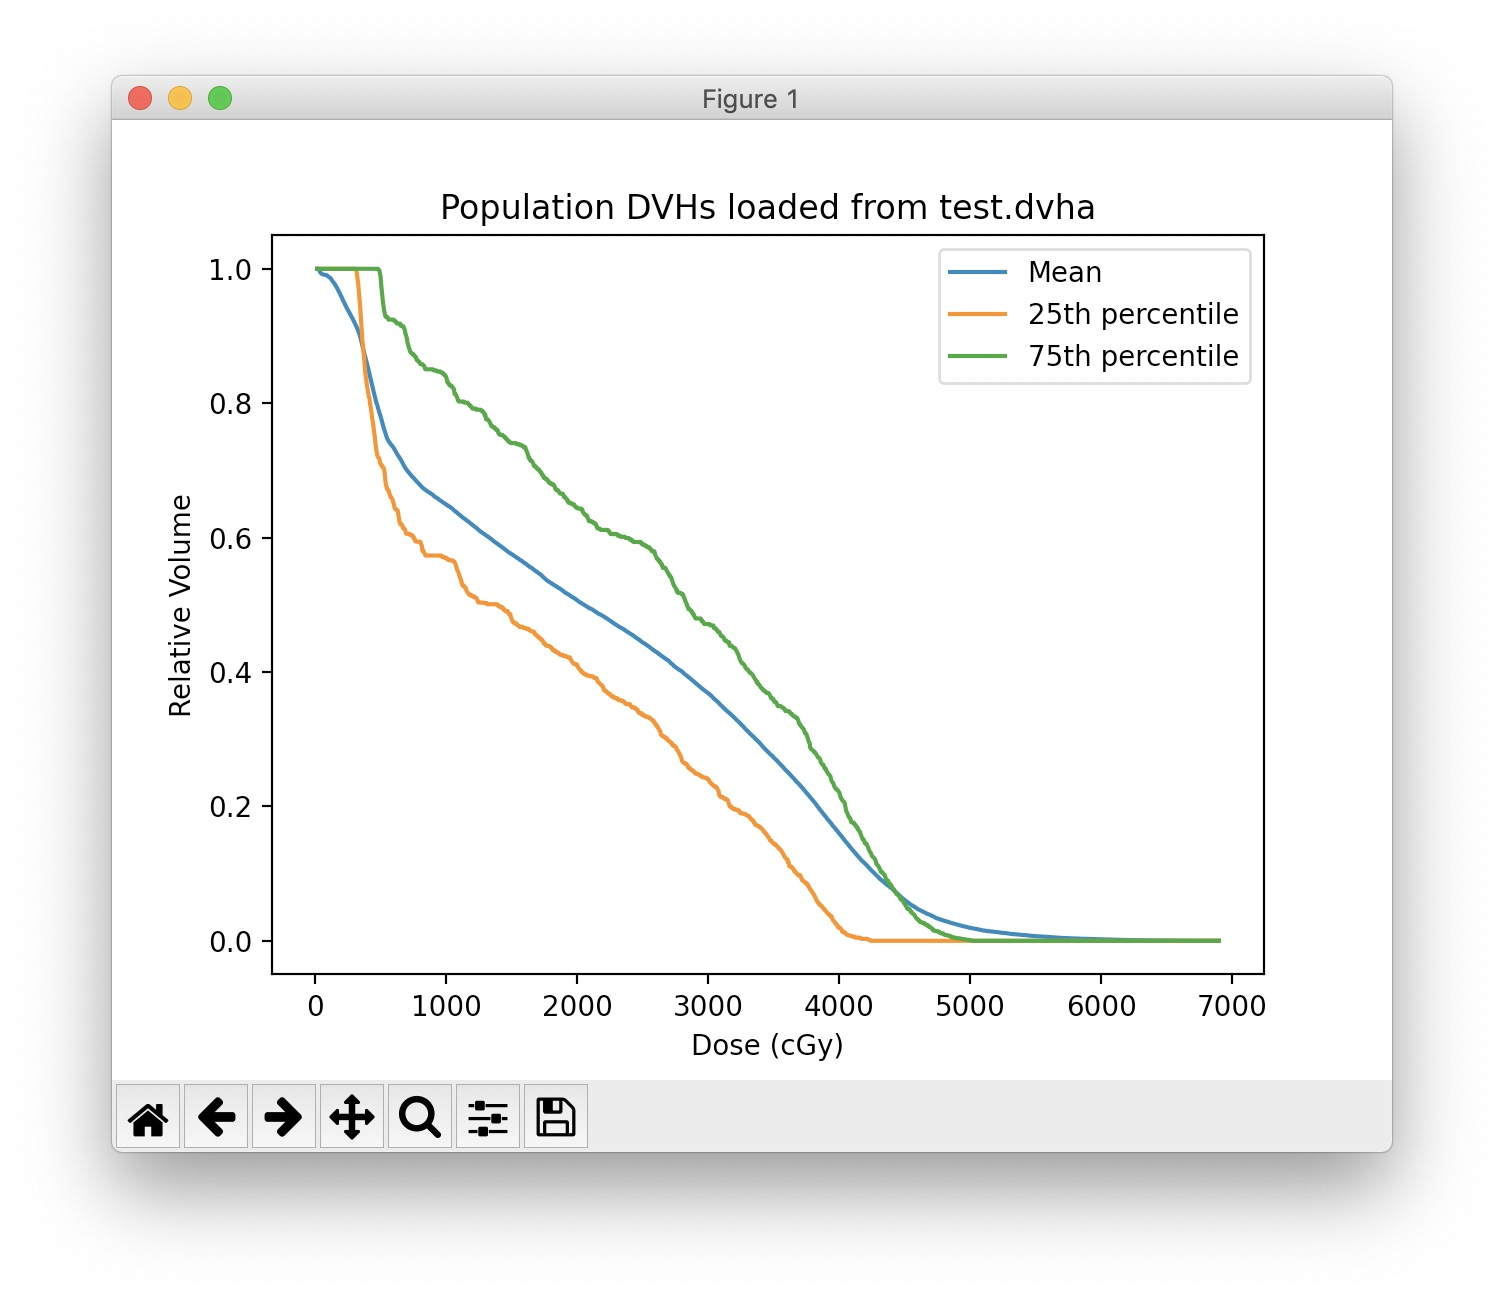
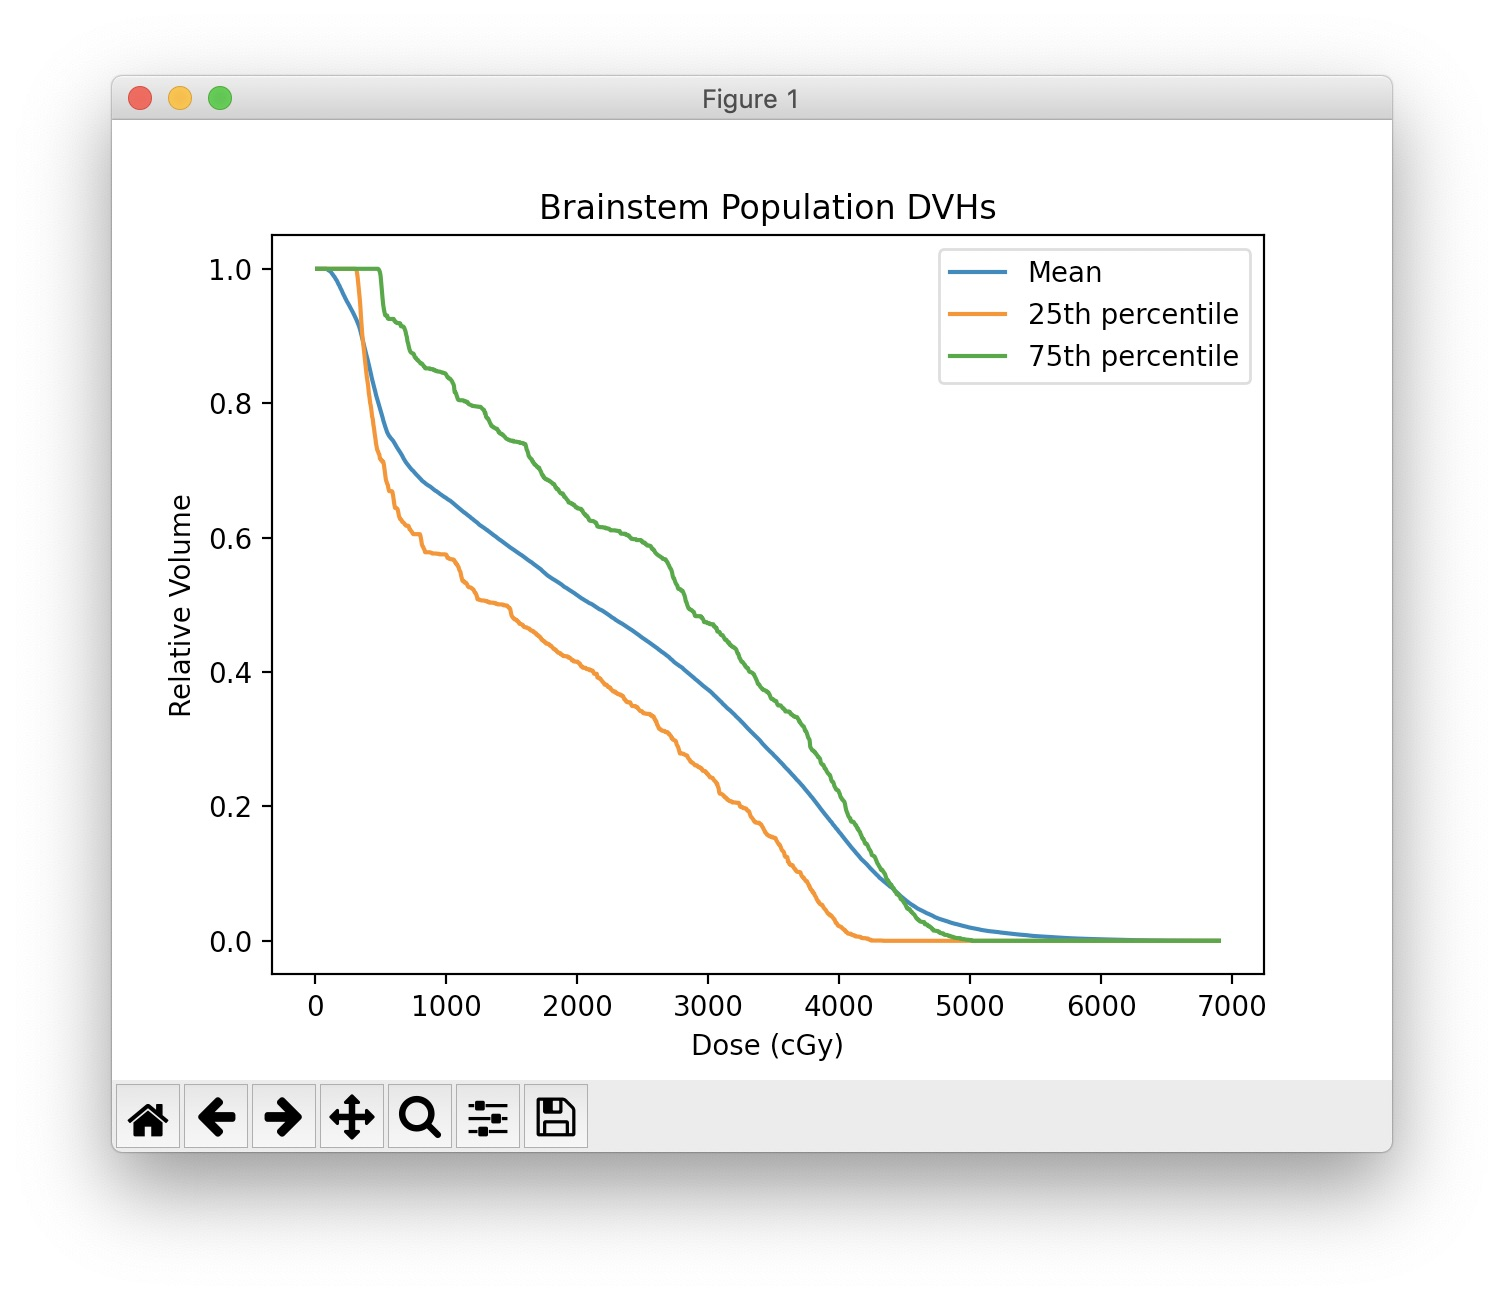
fix for https://github.com/cutright/DVH-Analytics/issues/148

diff --git a/dvha/models/dvh.py b/dvha/models/dvh.py
@@ -43,6 +43,7 @@ class DVH:
     def __init__(self, uid=None, dvh_condition=None, dvh_bin_width=5, group=1):
         self.dvh_bin_width = dvh_bin_width
 
+        constraints_str = ""
         if uid:
             constraints_str = "study_instance_uid in ('%s')" % "', '".join(uid)
             if dvh_condition:
@@ -50,8 +51,8 @@ class DVH:
                     dvh_condition,
                     constraints_str,
                 )
-        else:
-            constraints_str = ""
+        elif dvh_condition:
+            constraints_str = dvh_condition
 
         # Get DVH data from SQL and set as attributes
         dvh_data = QuerySQL("DVHs", constraints_str, group=group)

diff --git a/dvha/_version.py b/dvha/_version.py
@@ -9,6 +9,6 @@
 
 __author__ = "Dan Cutright"
 __email__ = "dan.cutright@gmail.com"
-__version__ = "0.9.5.post1"
-__release__ = "0.9.5.post1"
+__version__ = "0.9.5.post2"
+__release__ = "0.9.5.post2"
 __version_info__ = (0, 9, 5)

diff --git a/docs/source/usage.rst b/docs/source/usage.rst
@@ -87,7 +87,7 @@ The equivalent of the previous example, using ``DVH`` is below:
 .. code-block:: python
 
     from dvha.models.dvh import DVH
-    dvh = DVH(condition="physician_roi = 'brainstem'")
+    dvh = DVH(dvh_condition="physician_roi = 'brainstem'")
 
 
 DVH Plotting
@@ -104,6 +104,7 @@ DVH Plotting
     title = '%s DVH for %s' % (roi_name, mrn)
 
     # Create the plot, may need to call plt.show() on some setups
+    import matplotlib.pyplot as plt
     plt.plot(x, y)
     plt.title(title)
     plt.xlabel('Dose (cGy)')
@@ -126,7 +127,7 @@ Population DVH
     plt.plot(x, q1, label='25th percentile')
     plt.plot(x, q3, label='75th percentile')
 
-    plt.title('Population DVHs loaded from test.dvha')  # note, from user manual
+    plt.title('Brainstem Population DVHs')
     plt.xlabel('Dose (cGy)')
     plt.ylabel('Relative Volume')
     plt.legend()
